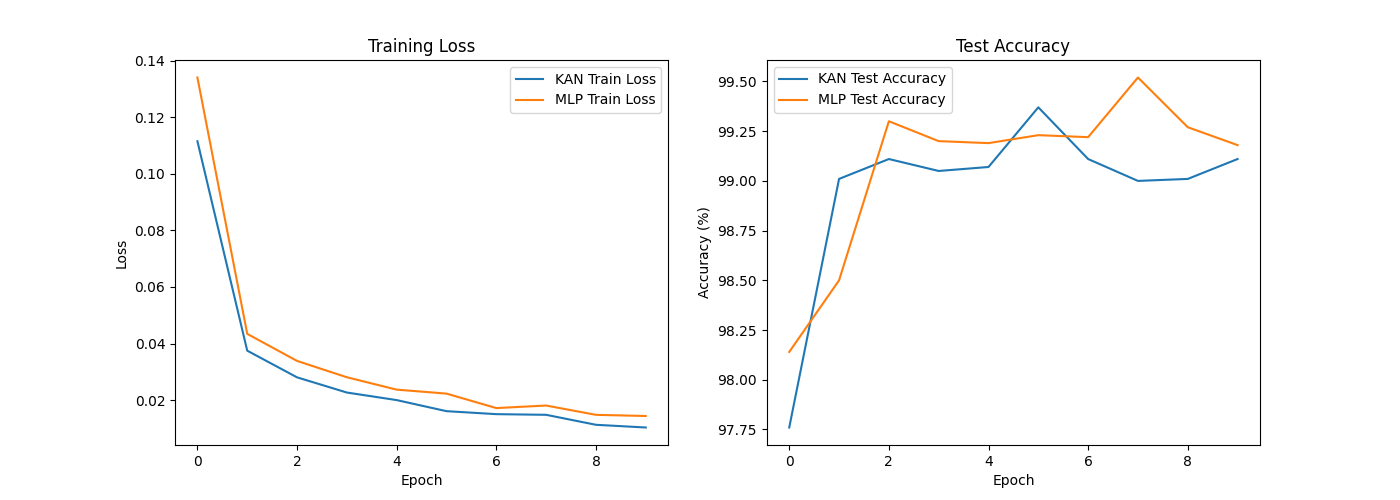
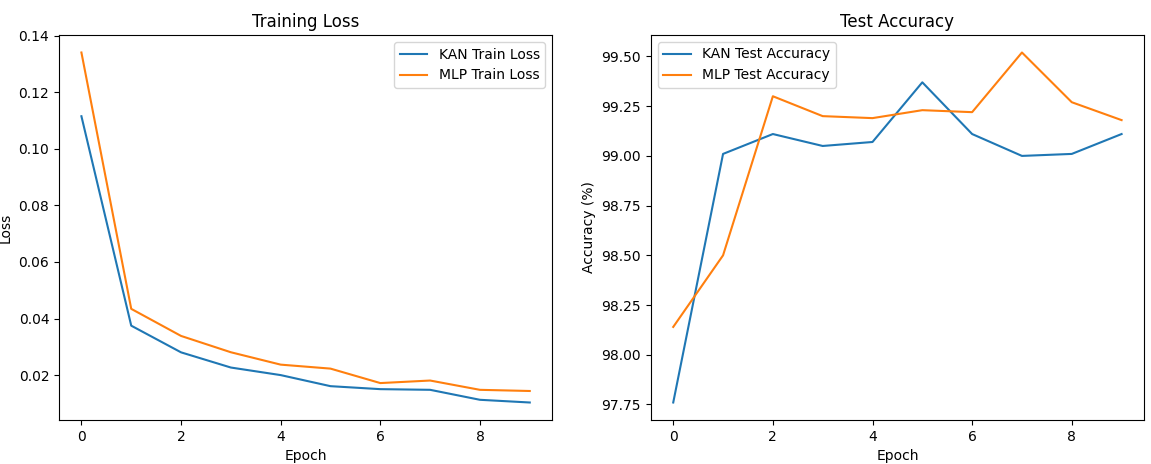
loss curve

diff --git a/README.md b/README.md
@@ -38,7 +38,7 @@ For comparison, a simple MLP model is defined in the main script train.py. This 
 Both models are trained on the MNIST dataset, using a modified ResNet as a feature extractor to adapt to the input size of MNIST images. The training process records metrics such as loss and accuracy, which are used to compare the models' performances.
 
 ## Result
-<img width="600" alt="kan_mlp_loss_curve" src="https://github.com/MaybeRichard/KAN-Layer/blob/main/result/mlp_kan_mnist.png">
+<img width="800" alt="kan_mlp_loss_curve" src="https://github.com/MaybeRichard/KAN-Layer/blob/main/result/mlp_kan_mnist.png">
 
 
 ## Contributing
